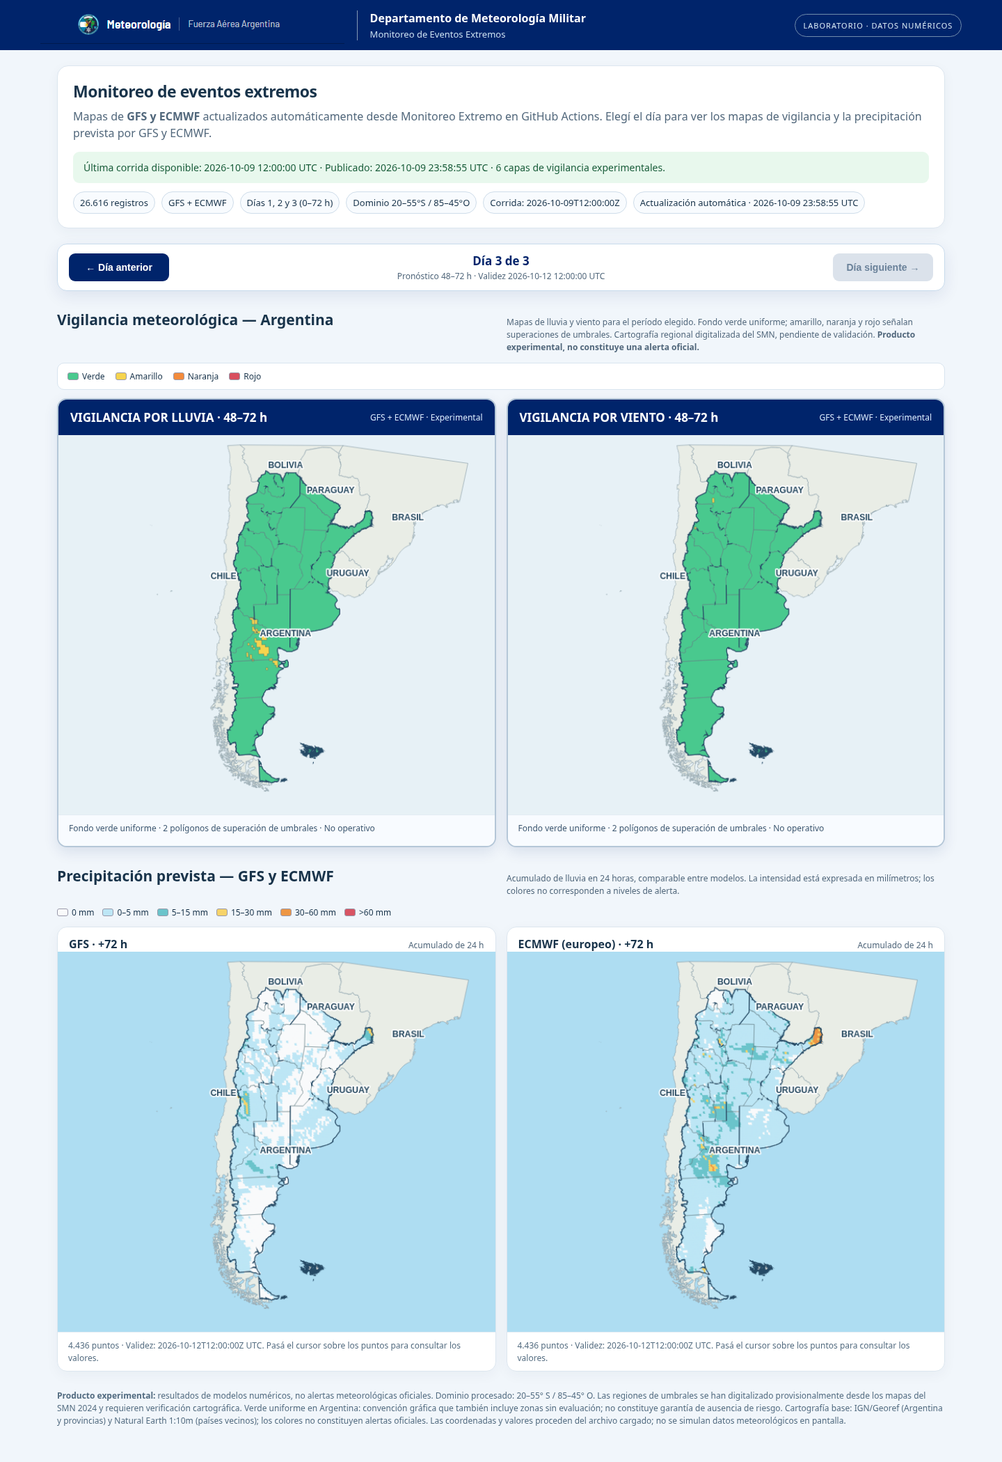
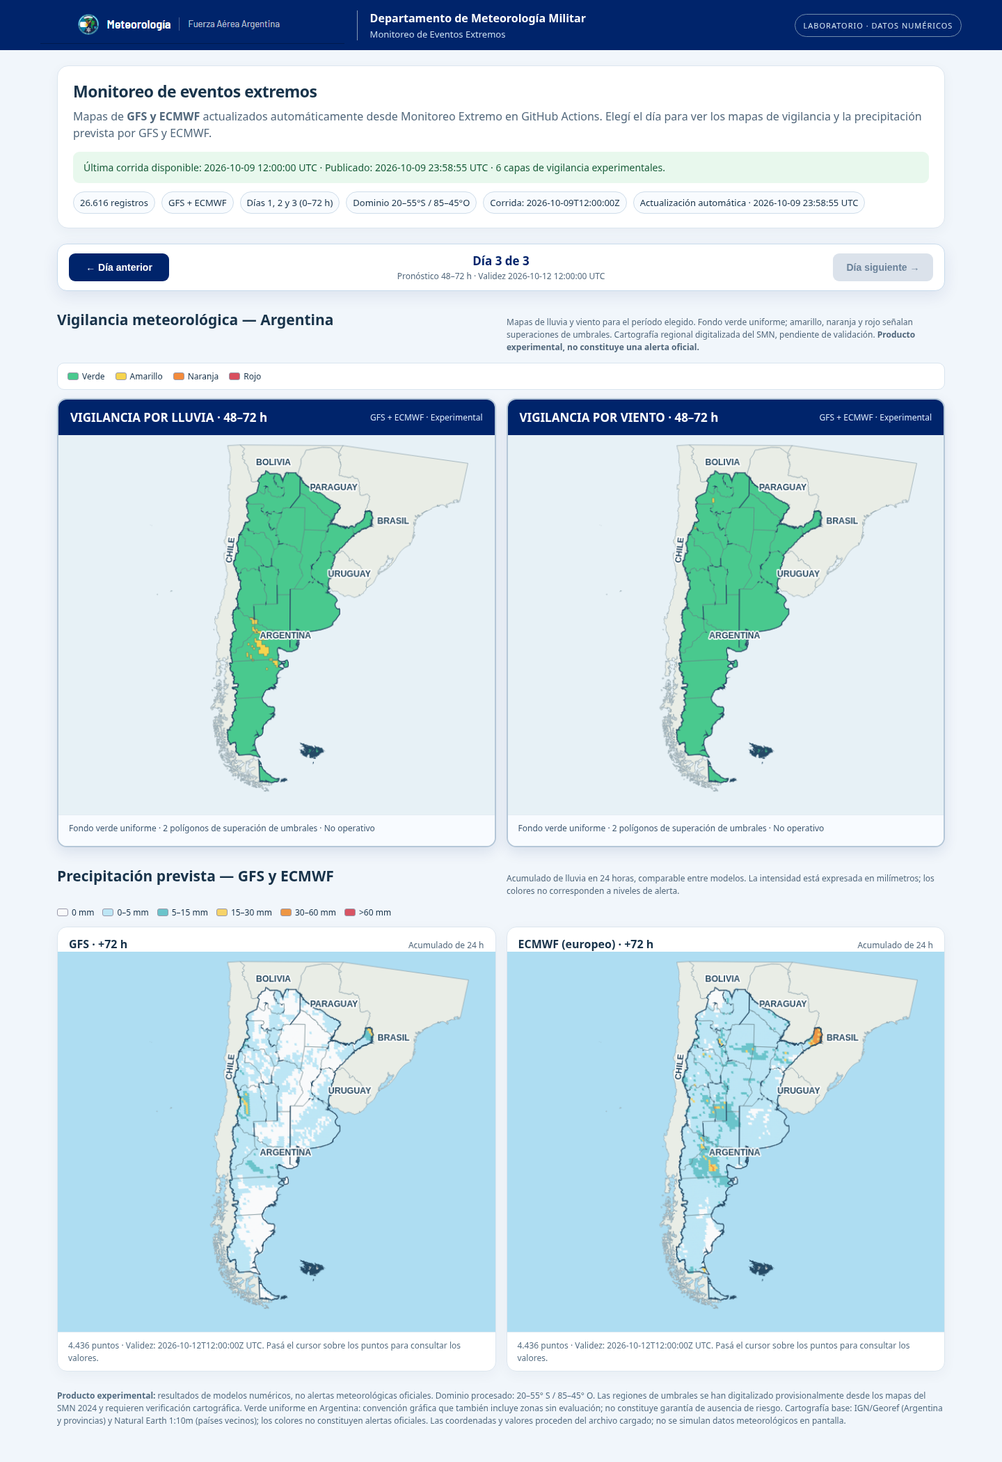
Limita vigilancia a Argentina y verifica etiquetas y clipping cartográfico

diff --git a/web/monitoreo-extremo/index.html b/web/monitoreo-extremo/index.html
@@ -87,7 +87,28 @@ function color(v,kind){if(!Number.isFinite(v))return '#b1bac5';if(kind==='wind')
 function geoPath(ctx,g){const polys=g.type==='Polygon'?[g.coordinates]:g.type==='MultiPolygon'?g.coordinates:[];ctx.beginPath();for(const pol of polys){for(const ring of pol){ring.forEach((pt,i)=>{const [x,y]=proj(pt[0],pt[1]);if(i)ctx.lineTo(x,y);else ctx.moveTo(x,y)});ctx.closePath()}}}
 function drawCountries(ctx){ctx.save();ctx.strokeStyle='#8da1aa';ctx.lineWidth=.7;for(const f of countries.features){ctx.fillStyle=f.properties.iso==='ARG'?'#f8f5ed':'#e9ede6';geoPath(ctx,f.geometry);ctx.fill('evenodd');ctx.stroke()}ctx.restore()}
 function drawProvinces(ctx){ctx.save();ctx.strokeStyle='#657f86';ctx.lineWidth=.55;ctx.globalAlpha=.8;for(const feat of provinceShapes){geoPath(ctx,feat.geometry);ctx.stroke()}ctx.restore()}
-function drawCountryNames(ctx){ctx.save();ctx.textAlign='center';ctx.font='bold 12px sans-serif';ctx.lineJoin='round';ctx.lineWidth=3.5;ctx.strokeStyle='rgba(255,255,255,.96)';ctx.fillStyle='#24475e';for(const [text,lon,lat] of [['ARGENTINA',-64,-39.5],['URUGUAY',-56,-32.7],['CHILE',-72,-33],['BOLIVIA',-64,-21.5],['PARAGUAY',-58.8,-24],['BRASIL',-49.5,-26]]){const [x,y]=proj(lon,lat);ctx.strokeText(text,x,y);ctx.fillText(text,x,y)}ctx.restore()}
+// Interior anchors checked against the exact versioned IGN/Natural Earth polygons.
+// Chile uses a north-south label to fit its narrow geography.
+const COUNTRY_LABELS=[
+ {iso:'ARG',text:'ARGENTINA',lon:-64,lat:-39.5,angle:0},
+ {iso:'CHL',text:'CHILE',lon:-70.8,lat:-30,angle:-83},
+ {iso:'URY',text:'URUGUAY',lon:-55.81865560906728,lat:-32.526632,angle:0},
+ {iso:'PRY',text:'PARAGUAY',lon:-58.47196410502842,lat:-23.43862,angle:0},
+ {iso:'BOL',text:'BOLIVIA',lon:-65.34835226379218,lat:-20.952415000000002,angle:0},
+ {iso:'BRA',text:'BRASIL',lon:-51.18966143500825,lat:-26.373382,angle:0}
+];
+function drawCountryNames(ctx){
+ ctx.save();ctx.textAlign='center';ctx.textBaseline='middle';ctx.font='bold 12px sans-serif';
+ ctx.lineJoin='round';ctx.lineWidth=3.5;ctx.strokeStyle='rgba(255,255,255,.96)';ctx.fillStyle='#24475e';
+ for(const label of COUNTRY_LABELS){
+  const country=countries.features.find(f=>f.properties.iso===label.iso);
+  if(!country||!puntoEnGeoJSON(label.lon,label.lat,country.geometry))continue;
+  const [x,y]=proj(label.lon,label.lat);
+  ctx.save();ctx.translate(x,y);ctx.rotate(label.angle*RAD);
+  ctx.strokeText(label.text,0,0);ctx.fillText(label.text,0,0);ctx.restore();
+ }
+ ctx.restore();
+}
 function readNumber(x){if(x===undefined||x===null||String(x).trim()==='')return NaN;const n=Number(String(x).trim().replace(',','.'));return Number.isFinite(n)?n:NaN}
 function parseCSV(text){const lines=text.replace(/^\uFEFF/,'').split(/\r?\n/).filter(s=>s.trim());if(lines.length<2)throw Error('CSV vacío o sin puntos meteorológicos.');const sep=lines[0].includes(';')?';':lines[0].includes('\t')?'\t':',';let headers=lines.shift().split(sep).map(s=>s.trim().toLowerCase().replaceAll('"',''));
 for(const h of ['model','lead_h','lat','lon','wind_kmh','precip_interval_mm'])if(!headers.includes(h))throw Error('Al CSV le falta la columna '+h+'.');let rows=[];
@@ -100,6 +121,7 @@ function pointValue(r,kind){return kind==='wind'?r.wind:r.rain;}
 function drawOne(canvas,rows,kind){const ctx=canvas.getContext('2d');const sc=window.devicePixelRatio||1;canvas.width=Math.round(W*sc);canvas.height=Math.round(H*sc);ctx.setTransform(sc,0,0,sc,0,0);ctx.clearRect(0,0,W,H);ctx.fillStyle='#aeddf2';ctx.fillRect(0,0,W,H);drawCountries(ctx);
 // Dibujar únicamente puntos de grilla del modelo (0,25°), sin malla ni marcadores oscuros.
 for(const punto of rows){const [x,y]=proj(punto.lon,punto.lat);ctx.fillStyle=color(pointValue(punto,kind),kind);ctx.beginPath();ctx.arc(x,y,2.3,0,Math.PI*2);ctx.fill();}
+ctx.restore();
 drawProvinces(ctx);drawArgentinaOutline(ctx);drawCountryNames(ctx);
 canvas.onmousemove=e=>{const rect=canvas.getBoundingClientRect(),x=(e.clientX-rect.left)*W/rect.width,y=(e.clientY-rect.top)*H/rect.height,[lon,lat]=unproj(x,y);let best=null,dmin=Infinity;for(const r of rows){const d=(r.lat-lat)**2+(r.lon-lon)**2;if(d<dmin){dmin=d;best=r}}let tip=$('tip');if(best&&dmin<.4){tip.style.display='block';tip.style.left=Math.min(window.innerWidth-270,e.clientX+14)+'px';tip.style.top=Math.max(10,e.clientY-74)+'px';const n=v=>Number.isFinite(v)?v.toFixed(1):'sin dato';tip.textContent=best.model+'  f'+String(best.lead).padStart(3,'0')+'\n'+best.lat.toFixed(2)+'° / '+best.lon.toFixed(2)+'°\nLluvia: '+n(best.rain)+' mm ('+(Number.isFinite(best.window)?best.window+' h':'intervalo no validado')+')';}else tip.style.display='none';};canvas.onmouseleave=()=>{$('tip').style.display='none'};
 }
@@ -158,19 +180,22 @@ function puntoEnGeoJSON(lon,lat,geom){
    !rings.slice(1).some(hole=>puntoEnAnillo(lon,lat,hole)));
 }
 function nivelVigilancia(lon,lat,layer){
+ if(!puntoEnGeoJSON(lon,lat,ARGENTINA.geometry))return null;
  // La última área dibujada en el mapa es la visible cuando hay superposición.
  for(let i=layer.features.length-1;i>=0;i--){
   const feature=layer.features[i],nivel=String(feature.properties?.nivel||'').toUpperCase();
   if(['AMARILLO','NARANJA','ROJO'].includes(nivel)&&puntoEnGeoJSON(lon,lat,feature.geometry))
     return nivel;
  }
- return puntoEnGeoJSON(lon,lat,ARGENTINA.geometry)?'VERDE':null; // Fondo convencional.
+ return 'VERDE'; // Fondo convencional; puede incluir zonas no evaluadas.
 }
 function drawAlertMap(canvas,layer,fen){
 const ctx=canvas.getContext('2d'),ratio=window.devicePixelRatio||1;
 canvas.width=Math.round(W*ratio);canvas.height=Math.round(H*ratio);
 ctx.setTransform(ratio,0,0,ratio,0,0);ctx.fillStyle='#e7f1f6';ctx.fillRect(0,0,W,H);
 drawCountries(ctx);drawArgentinaBase(ctx);
+// Clip only Canvas painting; never mutate the original meteorological layers.
+ctx.save();alertGeoPath(ctx,ARGENTINA.geometry);ctx.clip('evenodd');
 for(const feat of layer.features){
  if(!feat.geometry)continue;
  const nivel=String(feat.properties?.nivel||'').toUpperCase();
@@ -178,6 +203,7 @@ for(const feat of layer.features){
  ctx.save();ctx.fillStyle=ALERT_COLORS[nivel]||'#8f99a3';
  ctx.strokeStyle='#29475c88';ctx.lineWidth=.65;alertGeoPath(ctx,feat.geometry);ctx.fill('evenodd');ctx.stroke();ctx.restore();
 }
+ctx.restore();
 drawProvinces(ctx);drawArgentinaOutline(ctx);drawCountryNames(ctx);
 canvas.onmousemove=e=>{
  const rect=canvas.getBoundingClientRect();

diff --git a/web/monitoreo-extremo/tests/visual.py b/web/monitoreo-extremo/tests/visual.py
@@ -7,6 +7,7 @@ import argparse
 from functools import partial
 from http.server import SimpleHTTPRequestHandler, ThreadingHTTPServer
 import json
+import hashlib
 from pathlib import Path
 import threading
 import zipfile
@@ -22,6 +23,10 @@ parser.add_argument('--baseline-html', type=Path, help='Render an original HTML 
 a = parser.parse_args()
 root = Path(__file__).resolve().parents[3]
 meta = json.loads(a.metadata.read_text())
+if not a.synthetic:
+    expected = json.loads((root/'docs/cartografia-monitoreo-extremo/publicacion.json').read_text())
+    assert meta['ciclo_utc'] == expected['ciclo_utc'], 'Use the identified real cycle for this PR'
[1 lines of base64/hex data omitted]
 assert meta['estado'] == 'PUBLICADO' and meta['publicacion_autorizada'] is False
 with zipfile.ZipFile(a.zip) as archive:
     layers = {f'{fen}_{lead}h': json.loads(archive.read(f'{fen}_{lead}h.geojson'))
@@ -45,14 +50,45 @@ try:
         page.wait_for_function("document.getElementById('state').className==='good'", timeout=30000)
         assert page.evaluate('csvRows.length') > 100
         assert page.evaluate('alertFeatures') == layers, 'Alert coordinates/properties changed on load'
+        label_checks = []
+        if not a.baseline_html:
+            label_checks = page.evaluate('''()=>{
+              const canvas=document.createElement('canvas'),ctx=canvas.getContext('2d');
+              ctx.font='bold 12px sans-serif';return COUNTRY_LABELS.map(label=>{
+                const [x,y]=proj(label.lon,label.lat),width=ctx.measureText(label.text).width+7,height=19;
+                const t=label.angle*RAD,c=Math.cos(t),s=Math.sin(t);
+                const corners=[[-width/2,-height/2],[width/2,-height/2],[width/2,height/2],[-width/2,height/2]].map(([a,b])=>[x+a*c-b*s,y+a*s+b*c]);
+                return {iso:label.iso,territory:puntoEnGeoJSON(label.lon,label.lat,countries.features.find(f=>f.properties.iso===label.iso).geometry),frame:corners.every(([a,b])=>a>0&&a<W&&b>0&&b<H)};
+              });
+            }''')
+            assert len(label_checks)==6 and all(c['territory'] and c['frame'] for c in label_checks),label_checks
+            # A deliberately oversize regression polygon tests rendering only;
+            # real publication layers and screenshots stay unmodified.
+            clip_result = page.evaluate('''()=>{
+              const original={type:'FeatureCollection',features:[{properties:{nivel:'ROJO'},geometry:{type:'Polygon',coordinates:[[[-86,-56],[-44,-56],[-44,-19],[-86,-19],[-86,-56]]]}}]},snapshot=JSON.stringify(original);
+              const empty=document.createElement('canvas'),filled=document.createElement('canvas');
+              drawAlertMap(empty,{features:[]},'lluvia');drawAlertMap(filled,original,'lluvia');
+              const ratio=window.devicePixelRatio||1,mask=document.createElement('canvas');mask.width=filled.width;mask.height=filled.height;
+              const m=mask.getContext('2d');m.setTransform(ratio,0,0,ratio,0,0);m.fillStyle='white';m.strokeStyle='white';m.lineWidth=4;
+              geoPath(m,ARGENTINA.geometry);m.fill('evenodd');m.stroke();
+              const a=empty.getContext('2d').getImageData(0,0,empty.width,empty.height).data,b=filled.getContext('2d').getImageData(0,0,filled.width,filled.height).data,c=m.getImageData(0,0,mask.width,mask.height).data;
+              let leaks=0,changedInside=0;for(let i=0;i<a.length;i+=4){if(a[i]!==b[i]||a[i+1]!==b[i+1]||a[i+2]!==b[i+2]){if(c[i+3]===0)leaks++;else changedInside++;}}
+              return {leaks,changedInside,unchanged:JSON.stringify(original)===snapshot};
+            }''')
+            assert clip_result['leaks']==0 and clip_result['changedInside']>1000 and clip_result['unchanged'],clip_result
+        else:
+            clip_result = None
+        asset = json.loads((root/'web/monitoreo-extremo/base-cartography.js').read_text().split('window.BASE_CARTOGRAPHY=',1)[1].rstrip(';\n'))
+        argentina = shape(next(f['geometry'] for f in asset['countries']['features'] if f['properties']['iso']=='ARG'))
+        outside_checks = []
         for day in range(1, 4):
             assert page.locator('#dayTitle').inner_text() == f'Día {day} de 3'
             assert page.locator('canvas').count() == 4
             # Verify the original alert polygon under its projected representative point.
             for fen, index in [('lluvia', 0), ('viento', 1)]:
-                feature = next((f for f in layers[f'{fen}_{day*24}h']['features'] if f['properties'].get('nivel') in ('AMARILLO','NARANJA','ROJO') and not shape(f['geometry']).is_empty), None)
+                feature = next((f for f in layers[f'{fen}_{day*24}h']['features'] if f['properties'].get('nivel') in ('AMARILLO','NARANJA','ROJO') and not shape(f['geometry']).intersection(argentina).is_empty), None)
                 if feature:
-                    pos = shape(feature['geometry']).representative_point()
+                    pos = shape(feature['geometry']).intersection(argentina).representative_point()
                     xy = page.evaluate('p=>alertProj(p[0],p[1])', [pos.x, pos.y])
                     can = page.locator('#alertGrid canvas').nth(index)
                     can.scroll_into_view_if_needed()
@@ -60,6 +96,22 @@ try:
                     page.mouse.move(rect['x']+xy[0]*rect['width']/610, rect['y']+xy[1]*rect['height']/530)
                     assert page.locator('#tip').is_visible()
                     assert feature['properties']['nivel'].lower() in page.locator('#tip').inner_text()
+            if not a.baseline_html:
+                # Inspect actual tooltips over ocean, neighbors and coastal/border controls.
+                controls=[('Atlantic',-60,-45),('Chile',-70.6693,-33.4489),('Uruguay',-56.1645,-34.9011),('Brazil',-51.23,-30.0346),('Rio de la Plata',-57,-34.8),('Buenos Aires coast',-57,-35.5),('Patagonian coast',-66.8,-45.5),('Tierra del Fuego Chile',-68.7,-54.8)]
+                can=page.locator('#alertGrid canvas').first
+                can.scroll_into_view_if_needed();rect=can.bounding_box()
+                for name,lon,lat in controls:
+                    assert not argentina.contains(shape({'type':'Point','coordinates':[lon,lat]})),name
+                    xy=page.evaluate('p=>alertProj(p[0],p[1])',[lon,lat])
+                    page.mouse.move(rect['x']+xy[0]*rect['width']/610,rect['y']+xy[1]*rect['height']/530)
+                    assert not page.locator('#tip').is_visible(),name
+                    outside_checks.append({'day':day,'place':name,'tooltip_hidden':True})
+            if not a.baseline_html:
+                xy=page.evaluate('alertProj(-64,-39.5)');can=page.locator('#alertGrid canvas').first
+                can.scroll_into_view_if_needed();rect=can.bounding_box()
+                page.mouse.move(rect['x']+xy[0]*rect['width']/610,rect['y']+xy[1]*rect['height']/530)
+                assert page.locator('#tip').inner_text() == 'Nivel verde para lluvia'
             # A known loaded grid point must retain its numeric precipitation tooltip.
             point = page.evaluate('proj(csvRows.find(r=>r.lead===dayLeads[currentDay]&&r.model==="GFS").lon,csvRows.find(r=>r.lead===dayLeads[currentDay]&&r.model==="GFS").lat)')
             canvas = page.locator('#rainGrid canvas').first
@@ -68,6 +120,10 @@ try:
             page.mouse.move(bounds['x'] + point[0]*bounds['width']/610,
                             bounds['y'] + point[1]*bounds['height']/530)
             assert page.locator('#tip').is_visible()
+            ecmwf=page.evaluate('proj(csvRows.find(r=>r.lead===dayLeads[currentDay]&&r.model==="ECMWF").lon,csvRows.find(r=>r.lead===dayLeads[currentDay]&&r.model==="ECMWF").lat)')
+            second=page.locator('#rainGrid canvas').nth(1);second.scroll_into_view_if_needed();b=second.bounding_box()
+            page.mouse.move(b['x']+ecmwf[0]*b['width']/610,b['y']+ecmwf[1]*b['height']/530)
+            assert page.locator('#tip').is_visible() and 'ECMWF' in page.locator('#tip').inner_text()
             if a.synthetic:
                 page.evaluate("status('PRUEBA CON DATOS SINTÉTICOS — NO OPERATIVA')")
             if day == 1:
@@ -75,6 +131,23 @@ try:
             page.mouse.move(0, 0)
             page.evaluate('window.scrollTo(0,0)')
             page.screenshot(path=str(a.out/f'day-{day}.png'), full_page=True)
+            if day == 1 and not a.baseline_html:
+                # Enlarged excerpts of the real render for coastline/border inspection.
+                for name,lon,lat in [('rio-plata',-58,-35),('litoral-bonaerense',-57.4,-37),('costa-patagonica',-66.5,-47),('frontera-chile',-70,-36),('tierra-fuego',-68.4,-54)]:
+                    page.evaluate('''p=>{
+                      const panel=document.createElement('div');panel.id='geographic-review-detail';panel.style='width:700px;padding:20px;background:white;color:#173950';
+                      const title=document.createElement('h2');title.textContent=p.name+' · Detalle del render real · 2026-10-09 12 UTC';panel.append(title);
+                      const [x,y]=proj(p.lon,p.lat);
+                      for(const [selector,label] of [['#alertGrid canvas','Vigilancia lluvia'],['#rainGrid canvas','Precipitación GFS']]){
+                        const heading=document.createElement('h3');heading.textContent=label;panel.append(heading);
+                        const src=document.querySelector(selector),can=document.createElement('canvas');can.width=600;can.height=360;
+                        const ratio=src.width/W,sx=Math.max(0,Math.min(W-100,x-50)),sy=Math.max(0,Math.min(H-60,y-30));
+                        can.getContext('2d').drawImage(src,sx*ratio,sy*ratio,100*ratio,60*ratio,0,0,600,360);panel.append(can);
+                      }
+                      document.body.append(panel);
+                    }''',{'name':name,'lon':lon,'lat':lat})
+                    page.locator('#geographic-review-detail').screenshot(path=str(a.out/f'detail-{name}.png'))
+                    page.evaluate("document.getElementById('geographic-review-detail').remove()")
             if day < 3:
                 page.locator('#nextDay').click()
         page.locator('#prevDay').click()
@@ -83,7 +156,7 @@ try:
         assert not errors, errors
         report = {'input': str(a.zip.resolve()), 'synthetic': a.synthetic,
                   'cycle': meta['ciclo_utc'], 'days_checked': 3, 'maps_per_day': 4,
-                  'original_alert_polygons_preserved': True, 'javascript_errors': errors, 'baseline': bool(a.baseline_html)}
+                  'original_alert_polygons_preserved': True, 'javascript_errors': errors, 'baseline': bool(a.baseline_html), 'labels':label_checks,'canvas_clipping':clip_result,'outside_tooltips':outside_checks,'zip_sha256':hashlib.sha256(a.zip.read_bytes()).hexdigest()}
         (a.out/'results.json').write_text(json.dumps(report, indent=2))
         print(json.dumps(report))
         browser.close()

diff --git a/web/monitoreo-extremo/CARTOGRAFIA.md b/web/monitoreo-extremo/CARTOGRAFIA.md
@@ -13,7 +13,9 @@ La cartografía derivada está en `base-cartography.js`, junto al visor; el work
 
 ## Separación de la meteorología
 
-Los GeoJSON de alertas conservan todas sus coordenadas y propiedades. Solo se proyectan al dibujarse; no se recortan ni recalculan. Los tooltips seleccionan los polígonos originales incluso cuando su geometría no coincide exactamente con la nueva costa de referencia.
+Los GeoJSON de alertas conservan todas sus coordenadas y propiedades. Solo se proyectan al dibujarse; no se recortan ni recalculan. La vigilancia se dibuja dentro de un recorte Canvas del contorno IGN (`clip('evenodd')`), que respeta polígonos múltiples y huecos. El recorte afecta únicamente los píxeles: no modifica las capas. Los tooltips primero verifican la pertenencia a Argentina y solo entonces consultan los polígonos originales; fuera del contorno no muestran ningún nivel. El verde sigue siendo una convención de fondo y puede incluir zonas no evaluadas, como se aclara en el pie del visor.
+
+Las seis etiquetas tienen anclas interiores verificadas contra las mismas geometrías y posiciones comprobadas dentro del encuadre, incluido el halo. Chile se escribe en dirección norte-sur para ajustarse a su territorio estrecho. Todas se dibujan después de los datos meteorológicos, con halo claro.
 
 Los cuatro `referencia_provincias_*.geojson` utilizados por el clasificador **permanecen intactos**: modificar esa máscara alteraría el procesamiento meteorológico. Tampoco cambian umbrales, regiones, cálculos, navegación, identidad FAA ni formato de publicación. `generar-productos-multimodelo.yml` no se modifica.
 
@@ -32,6 +34,7 @@ El generador verifica los hashes de ambas fuentes antes de generar. No descarga 
 
 ```sh
 node web/monitoreo-extremo/tests/geography.test.cjs
+node web/monitoreo-extremo/tests/vigilance.test.cjs
 python web/monitoreo-extremo/tests/topology.py
 python web/monitoreo-extremo/tests/visual.py \
   --zip /ruta/monitoreo-extremo.zip \
@@ -41,6 +44,8 @@ python web/monitoreo-extremo/tests/visual.py \
 
 La prueba geográfica comprueba el dominio completo, la transformación inversa, seis localidades reales de control, un punto del Atlántico y las fuentes. La prueba topológica comprueba la validez de las 24 geometrías derivadas y la coincidencia exacta de la unión provincial con el contorno nacional.
 
-La prueba visual levanta un servidor temporal y usa Chromium/Playwright. Carga el ZIP a través de las mismas solicitudes automáticas del visor, verifica seis capas, cuatro mapas por día, navegación y tooltips de precipitación y de polígonos de vigilancia. Compara todas las coordenadas y propiedades originales antes y después de navegar. `--baseline-html` permite comparar un HTML original; `--synthetic` identifica explícitamente pruebas sintéticas.
+La prueba visual levanta un servidor temporal y usa Chromium/Playwright. Carga el ZIP a través de las mismas solicitudes automáticas del visor, verifica seis capas, cuatro mapas por día, navegación y tooltips de precipitación y de polígonos de vigilancia. Compara todas las coordenadas y propiedades originales antes y después de navegar. También comprueba la pertenencia territorial y el encuadre de las etiquetas, y el clipping mediante comparación de píxeles con una capa de regresión deliberadamente sobredimensionada. Esa capa de prueba no reemplaza los datos reales usados en las capturas. El ZIP real se verifica por SHA-256 y ciclo para impedir una sustitución silenciosa. `--baseline-html` permite comparar un HTML original; `--synthetic` identifica explícitamente pruebas sintéticas.
 
 Las [capturas y resultados de revisión](../../docs/cartografia-monitoreo-extremo/README.md) usan el ZIP real publicado del **9 de octubre de 2026, 12 UTC**, con **26.616 registros y seis capas**. No se desplegó el sitio ni se integró la rama a `master`.
+
+La exclusión sigue exactamente el polígono territorial IGN/Georef, cuya delimitación administrativa puede incluir aguas jurisdiccionales del Río de la Plata. No es una máscara de tierra seca. También subsisten las diferencias de escala IGN/Natural Earth y la regionalización meteorológica provisional, que esta corrección no altera.

diff --git a/docs/cartografia-monitoreo-extremo/README.md b/docs/cartografia-monitoreo-extremo/README.md
@@ -22,3 +22,17 @@ Validación ejecutada:
 Resultados automatizados: [visual](results.json), [topología](geography-results.json). Fuentes, hashes, limitaciones de escala y comandos reproducibles: [CARTOGRAFIA.md](../../web/monitoreo-extremo/CARTOGRAFIA.md).
 
 La prueba valida el visor local cargando una copia de la publicación real a través del flujo automático. No prueba un despliegue nuevo en GitHub Pages. La rama queda para revisión mediante Pull Request, sin integración a `master`.
+
+## Correcciones finales de la PR #5
+
+Comparación con la versión anterior de esta misma PR: [antes de las correcciones](before-corrections-day-1.png) / [después](day-1.png). Se regeneraron las tres capturas posteriores con exactamente el mismo ZIP real y SHA-256 de la validación inicial.
+
+- `nivelVigilancia` excluye primero los puntos fuera del contorno IGN. Los colores se recortan solo al dibujar, con `Canvas.clip('evenodd')`; los GeoJSON originales permanecen idénticos.
+- Regresión automatizada: amarillo/naranja/rojo dentro del país; exclusión fuera del país sobre toda la grilla del dominio; verde sin clasificación; huecos y polígonos múltiples. La capa sobredimensionada de esta regresión es una entrada de prueba aislada, no sustituye los datos reales de las capturas.
+- Chromium: 24 controles de tooltip oculto (ocho lugares por cada uno de los tres días), tooltip verde interior, tooltips sobre alertas reales y precipitación de ambos modelos. Las seis anclas de etiquetas pertenecen a sus países; sus cajas, incluidos halos y rotación, caben en el Canvas.
+- Comparación de píxeles: **cero píxeles de color filtrados fuera del recorte**, manteniendo margen de antialiasing de dos píxeles alrededor del borde; 38.211 píxeles modificados dentro del contorno con el polígono de regresión.
+- Revisión visual de los mapas completos y ampliaciones del render real: [Río de la Plata](detail-rio-plata.png), [litoral bonaerense](detail-litoral-bonaerense.png), [costa patagónica](detail-costa-patagonica.png), [frontera argentino-chilena](detail-frontera-chile.png) y [Tierra del Fuego](detail-tierra-fuego.png). Estas ampliaciones usan los mismos píxeles renderizados, sin recalcular ni cambiar coordenadas.
+
+Las costas y fronteras mantienen las geometrías de la primera revisión. La delimitación IGN/Georef es administrativa: puede incluir aguas jurisdiccionales del Río de la Plata, por lo que el contorno territorial no equivale a una máscara de tierra seca. Subsisten las diferencias de escala IGN/Natural Earth y la regionalización meteorológica provisional. No se modificaron esas fuentes ni el procesamiento meteorológico para resolverlas.
+
+Archivos de estas correcciones: `web/monitoreo-extremo/index.html`, `tests/vigilance.test.cjs`, `tests/visual.py`, `CARTOGRAFIA.md` y evidencia en `docs/cartografia-monitoreo-extremo/`. El asset cartográfico, la proyección, los cálculos y los workflows no cambian en esta actualización.
